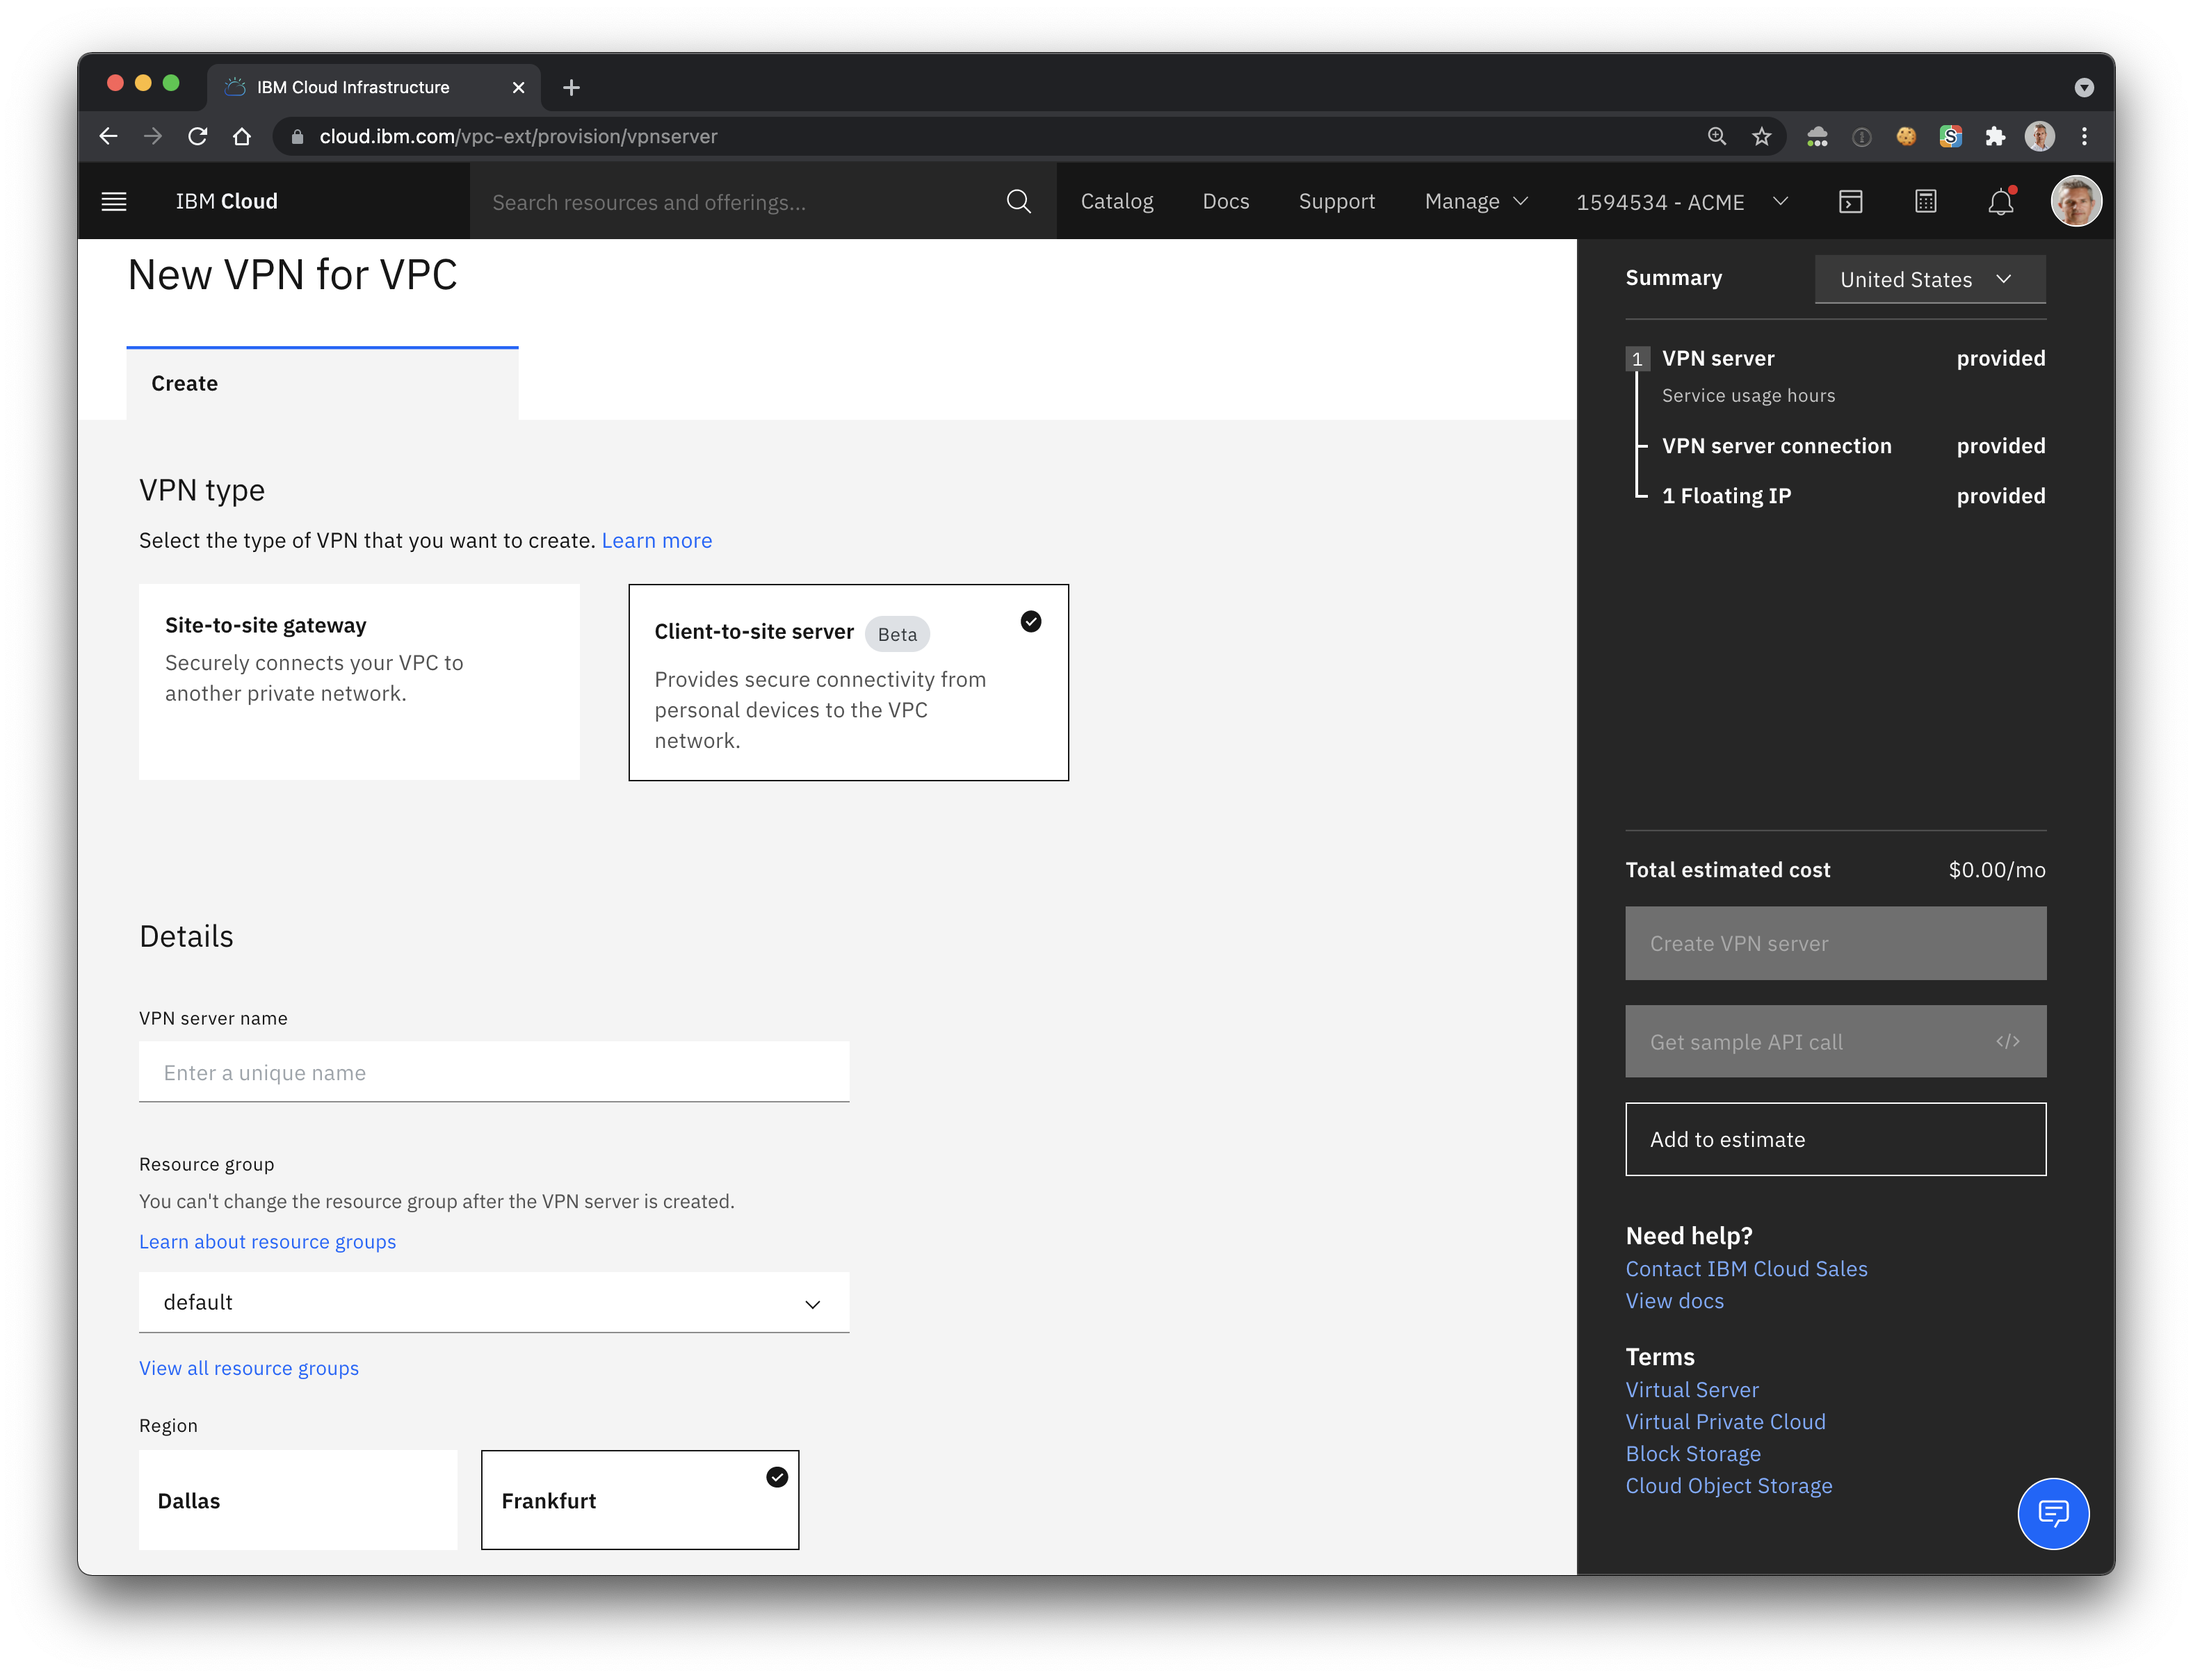
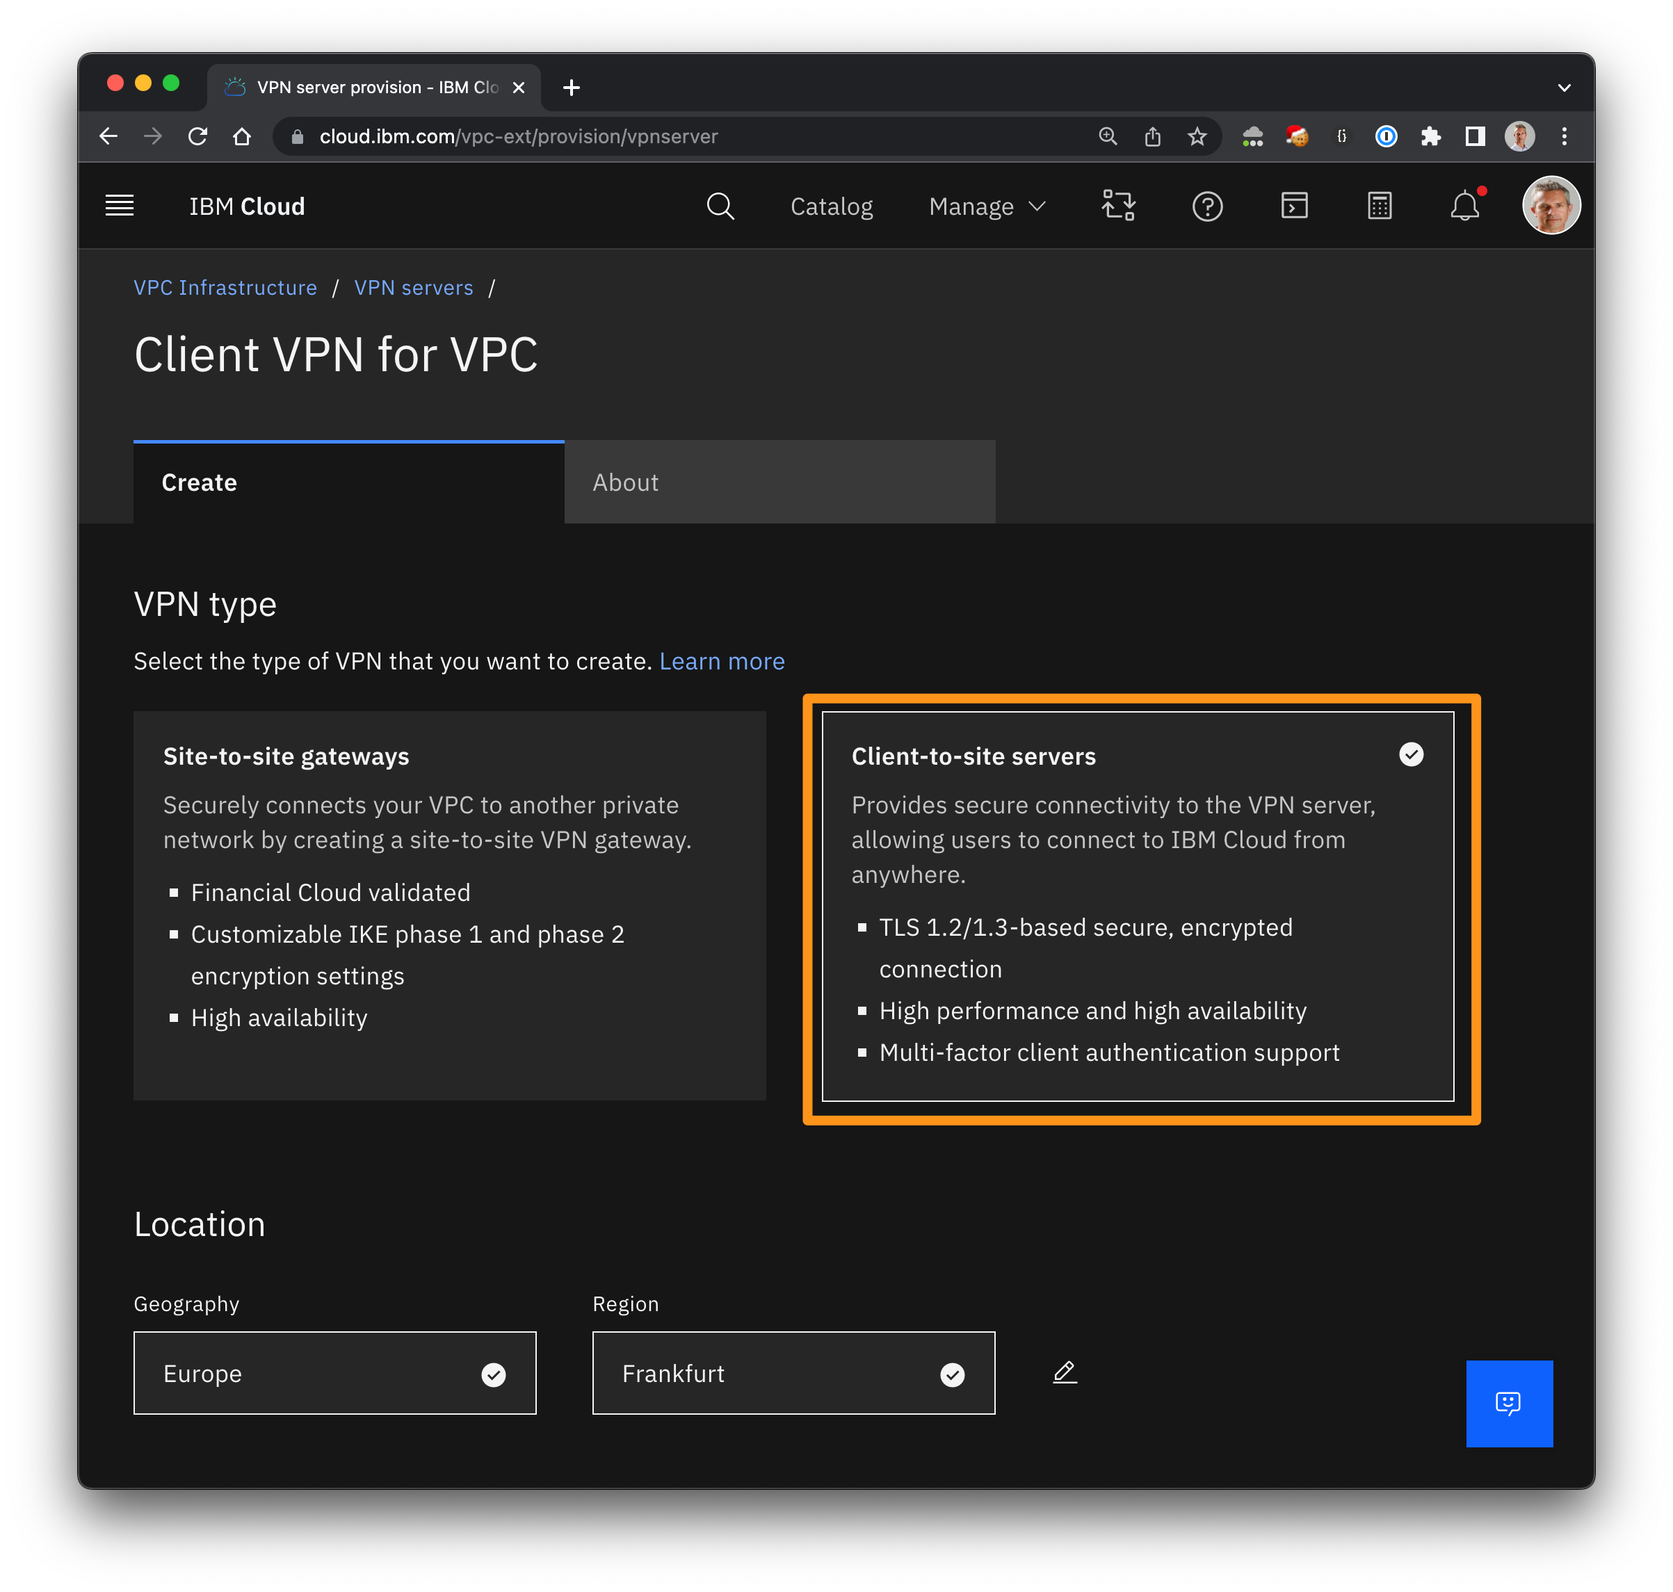
initial vpn update

diff --git a/vpn/README.md b/vpn/README.md
@@ -19,11 +19,53 @@ This solution is useful for telecommuters who want to connect to the IBM Cloud f
     cd easy-rsa/easyrsa3
     ```
 
-1. Create a new PKI and CA:
+1. Create a new PKI.
 
     ```sh
     ./easyrsa init-pki
+    ```
+
+    Output:
+
+    ```
+    You are about to remove the EASYRSA_PKI at:
+    * /Users/lionelmace/Git/easy-rsa/easyrsa3/pki
+
+    and initialize a fresh PKI here.
+
+    Type the word 'yes' to continue, or any other input to abort.
+    Confirm removal: yes
+
+
+    Notice
+    ------
+    'init-pki' complete; you may now create a CA or requests.
+
+    Your newly created PKI dir is:
+    * /Users/lionelmace/Git/easy-rsa/easyrsa3/pki
+
+    * Using Easy-RSA configuration:
+
+    * IMPORTANT: Easy-RSA 'vars' template file has been created in your new PKI.
+                Edit this 'vars' file to customise the settings for your PKI.
+                To use a global vars file, use global option --vars=<YOUR_VARS>
+
+    * Using x509-types directory: /Users/lionelmace/Git/easy-rsa/easyrsa3/x509-types
+    ```
+
+1. Create a new CA.
+
+    ```sh
     ./easyrsa build-ca nopass
+    ```
+
+    Output:
+
+    ```sh
+    ...
+    CA creation complete and you may now import and sign cert requests.
+    Your new CA certificate file for publishing is at:
+    /Users/lionelmace/Git/easy-rsa/easyrsa3/pki/ca.crt
     ```
 
 1. Generate a VPN server certificate.
@@ -32,37 +74,65 @@ This solution is useful for telecommuters who want to connect to the IBM Cloud f
     ./easyrsa build-server-full vpn-server.vpn.ibm.com nopass
     ```
 
+    Output
+
+    ```sh
+    ...
+    Certificate created at: /Users/lionelmace/Git/easy-rsa/easyrsa3/pki/issued/vpn-server.vpn.ibm.com.crt
+    ```
+
 1. Generate a VPN client certificate.
 
     ```sh
     ./easyrsa build-client-full client1.vpn.ibm.com nopass
     ```
 
-## Import the certificates into Certificate Manager
+    Output
 
-You need an instance of the managed service [Certificate Manager](https://cloud.ibm.com/catalog/services/certificate-manager).
+    ```sh
+    ...
+    Certificate created at: /Users/lionelmace/Git/easy-rsa/easyrsa3/pki/issued/client1.vpn.ibm.com.crt
+    ```
+
+## Import the certificates into Secrets Manager
+
+You need an instance of the managed service [Secrets Manager](https://cloud.ibm.com/catalog/services/secrets-manager).
 
 1. You can create the service from the UI or using the command line:
 
     ```sh
-    ibmcloud resource service-instance-create <service-name> cloudcerts "free" <region>
+    ibmcloud resource service-instance-create <service-name> secrets-manager "trial" <region>
     ```
 
-1. Import the certificates into this instance
+1. Import the certificates, click the button **Add +**, then **TLS Certificates** and finally **Import a certificate**
 
-    ![Certificate Manager](./cert-mgr.png)
+    ![Secrets Manager](./sm-import1.png)
+
+    Below are the inputs for each field:
+
+    | Syntax | File |
+    | ----------- | ----------- |
+    | Certificate | easy-rsa/easyrsa3/pki/issued/vpn-server.vpn.ibm.com.crt |
+    | Private Key (Optional) | easy-rsa/easyrsa3/pki/private/vpn-server.vpn.ibm.com.key |
+    | Intermediate Security (Optional) | easy-rsa/easyrsa3/pki/ca.crt |
+
+    ![Secrets Manager](./sm-import2.png)
+
+1. Click **Create**. You should get a confirmation like the following:
+
+    ![Secrets Manager](./sm-import3.png)
 
 ## Create a VPN
 
-1. Create an IAM service-to-service authorization to authorize VPN to read certificates in Certificate Manager
+1. Create an **IAM Authorization** to authorize the service VPN to read certificates in the service Secrets Manager
 
     ```sh
-    ibmcloud iam authorization-policy-create is cloudcerts Writer --source-resource-type vpn-server
+    ibmcloud iam authorization-policy-create is secrets-manager SecretsReader --source-resource-type vpn-server
     ```
 
 1. Go the [VPN Gateways](https://cloud.ibm.com/vpc-ext/network/vpnServers).
 
-1. Click `Create`. Make sure to select `Client-tp-site server` currently in Beta.
+1. Click `Create`. Make sure to select `Client-to-site servers`.
 
     ![VPN](./vpn-ui.png)
 
